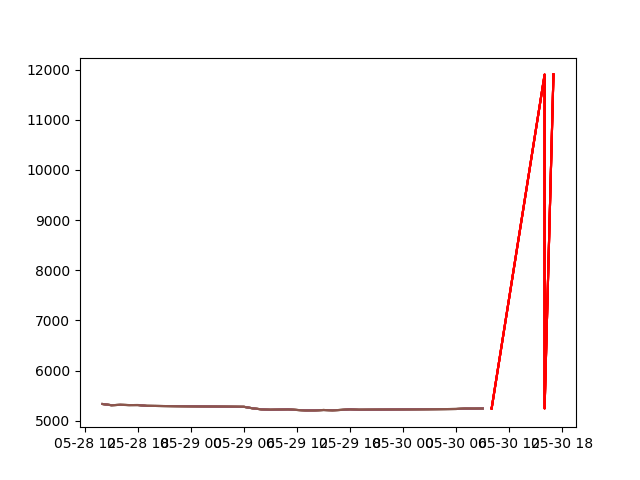
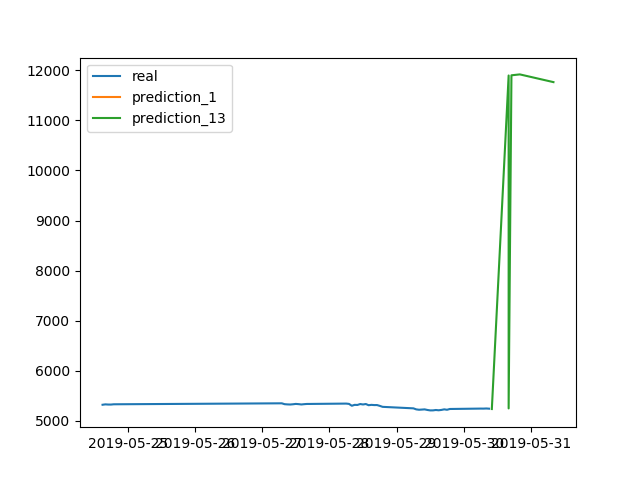
graph stock history

diff --git a/app/templates/base.html b/app/templates/base.html
@@ -10,37 +10,37 @@
 </head>
 
 <body>
-<div class="container-fluid">
-          <header class="row text-white">
-                <h1>Boursicodeurs</h1>
-                <p>Site en construction</p>
-          </header>
-{% include 'includes/navbar.html' %}
+    <div class="container-fluid">
+              <header class="row text-white">
+                    <h1>Boursicodeurs</h1>
+                    <p>Site en construction</p>
+              </header>
+        {% include 'includes/navbar.html' %}
 
-    <!-- Messages flash -->
-    {% with messages = get_flashed_messages(with_categories=true) %}
-          {% if messages %}
-                <div class="alert alert-info"
-                        <ul class=flashes>
-                                {% for category, message in messages %}
-                                    <li class="{{ category }}">{{ message }}</li>
-                                {% endfor %}
-                        </ul>
-                </div>
-          {% endif %}
-    {% endwith %}
+        <!-- Messages flash -->
+        {% with messages = get_flashed_messages(with_categories=true) %}
+              {% if messages %}
+                    <div class="alert alert-info"
+                            <ul class=flashes>
+                                    {% for category, message in messages %}
+                                        <li class="{{ category }}">{{ message }}</li>
+                                    {% endfor %}
+                            </ul>
+                    </div>
+              {% endif %}
+        {% endwith %}
 
 
-      <div class="p-5">
-            <!-- main content -->
-            {% block body %}
-            {% endblock %}
-      </div>
+          <div class="p-5">
+                <!-- main content -->
+                {% block body %}
+                {% endblock %}
+          </div>
 
-      <footer class="row text-white">
-            <p>L'appli des Boursicodeurs fait par des Boursicodeurs pour les Boursicodeurs</p>
-      </footer>
-</div>
+          <footer class="row text-white">
+                <p>L'appli des Boursicodeurs fait par des Boursicodeurs pour les Boursicodeurs</p>
+          </footer>
+    </div>
 
     <script src="https://d3js.org/d3.v5.min.js"></script>
     <script type="text/javascript" src="https://cdn.jsdelivr.net/npm/lodash@4.17.10/lodash.min.js"></script>

diff --git a/app/templates/stock-history.html b/app/templates/stock-history.html
@@ -2,9 +2,32 @@
 
 {% block body %}
     <h1>Cours de la bourse</h1>
-    <img  src="{{ url_for('static', filename='img/stock-history.png') }}"/>
+<div class="row">
+    <div class="col-6">
+         <img  src="{{ url_for('static', filename='img/stock-history.png') }}"/>
+    </div>
+    <div class="col-6">
+        <table class="table">
+            <thead class="thead-light">
+                <tr>
+                    <td>Date</td>
+                    <td>Model</td>
+                    <td>askclose</td>
+                </tr>
+            </thead>
+            {% for predict in predictions %}
+            <tr>
+                <td>{{ predict.date }} </td>
+                <td>{{ predict.train_history.id }} </td>
+                <td>{{ predict.askclose }} </td>
+            </tr>
+            {% endfor %}
+        </table>
+    </div>
+</div>
+
     <div id="dataviz_area"></div>
-<svg id="container"></svg>
+    <svg id="container"></svg>
 {% endblock %}
 
 {% block javascript %}

diff --git a/app/templates/includes/navbar.html b/app/templates/includes/navbar.html
@@ -11,6 +11,9 @@
                     <li>
                       <a class="nav-link" href="{{ url_for('bot') }}">Bot</a>
                   </li>
+                    <li>
+                      <a class="nav-link" href="{{ url_for('stock_history') }}">Historique</a>
+                  </li>
             </ul>
   </div>
 

diff --git a/app/templates/index.html b/app/templates/index.html
@@ -1,7 +1,6 @@
 {% extends 'base.html' %}
 {% block body %}
 
-
     <div class="col-12">
       <h2 class="mb-2">Création de modèle</h2>
       <form method="POST" action="{{ url_for('train_model') }}" class="form-inline">

diff --git a/app/views.py b/app/views.py
@@ -17,18 +17,26 @@ def index():
 def stock_history():
     stock_history = StockHistory.query.all()
     stock_predictions = StockPrediction.query.all()
-    print('hellllllo')
     limit = 100
-    data = stock_history[-24:]
+    data = stock_history[-50:]
+    plt.figure()
+
     dates_real = [stock.date for stock in data]
-    dates_predict = [stock.date for stock in stock_predictions]
-    askopen_real = [stock.askopen for stock in data]
-    askopen_predict = [stock.askopen for stock in stock_predictions]
-    plt.plot(dates_real, askopen_real)
-    plt.plot(dates_predict, askopen_predict, c='red')
+    y_real = [stock.askclose for stock in data]
+    plt.plot(dates_real,  y_real, label='real')
+
+    models = [ predict.train_history.id  for predict in stock_predictions]
+    models_ids = list(dict.fromkeys(models))
+
+    for model_id in models_ids:
+        dates_predict = [stock.date for stock in stock_predictions if stock.train_history.id == model_id]
+        y_predict = [stock.bidclose for stock in stock_predictions if stock.train_history.id == model_id]
+        plt.plot(dates_predict, y_predict, label='prediction_'+str(model_id))
+
+    plt.legend()
     plt.savefig('app/static/img/stock-history.png')
 
-    return render_template('stock-history.html')
+    return render_template('stock-history.html', predictions=stock_predictions)
 
 
 @app.route('/bot')
